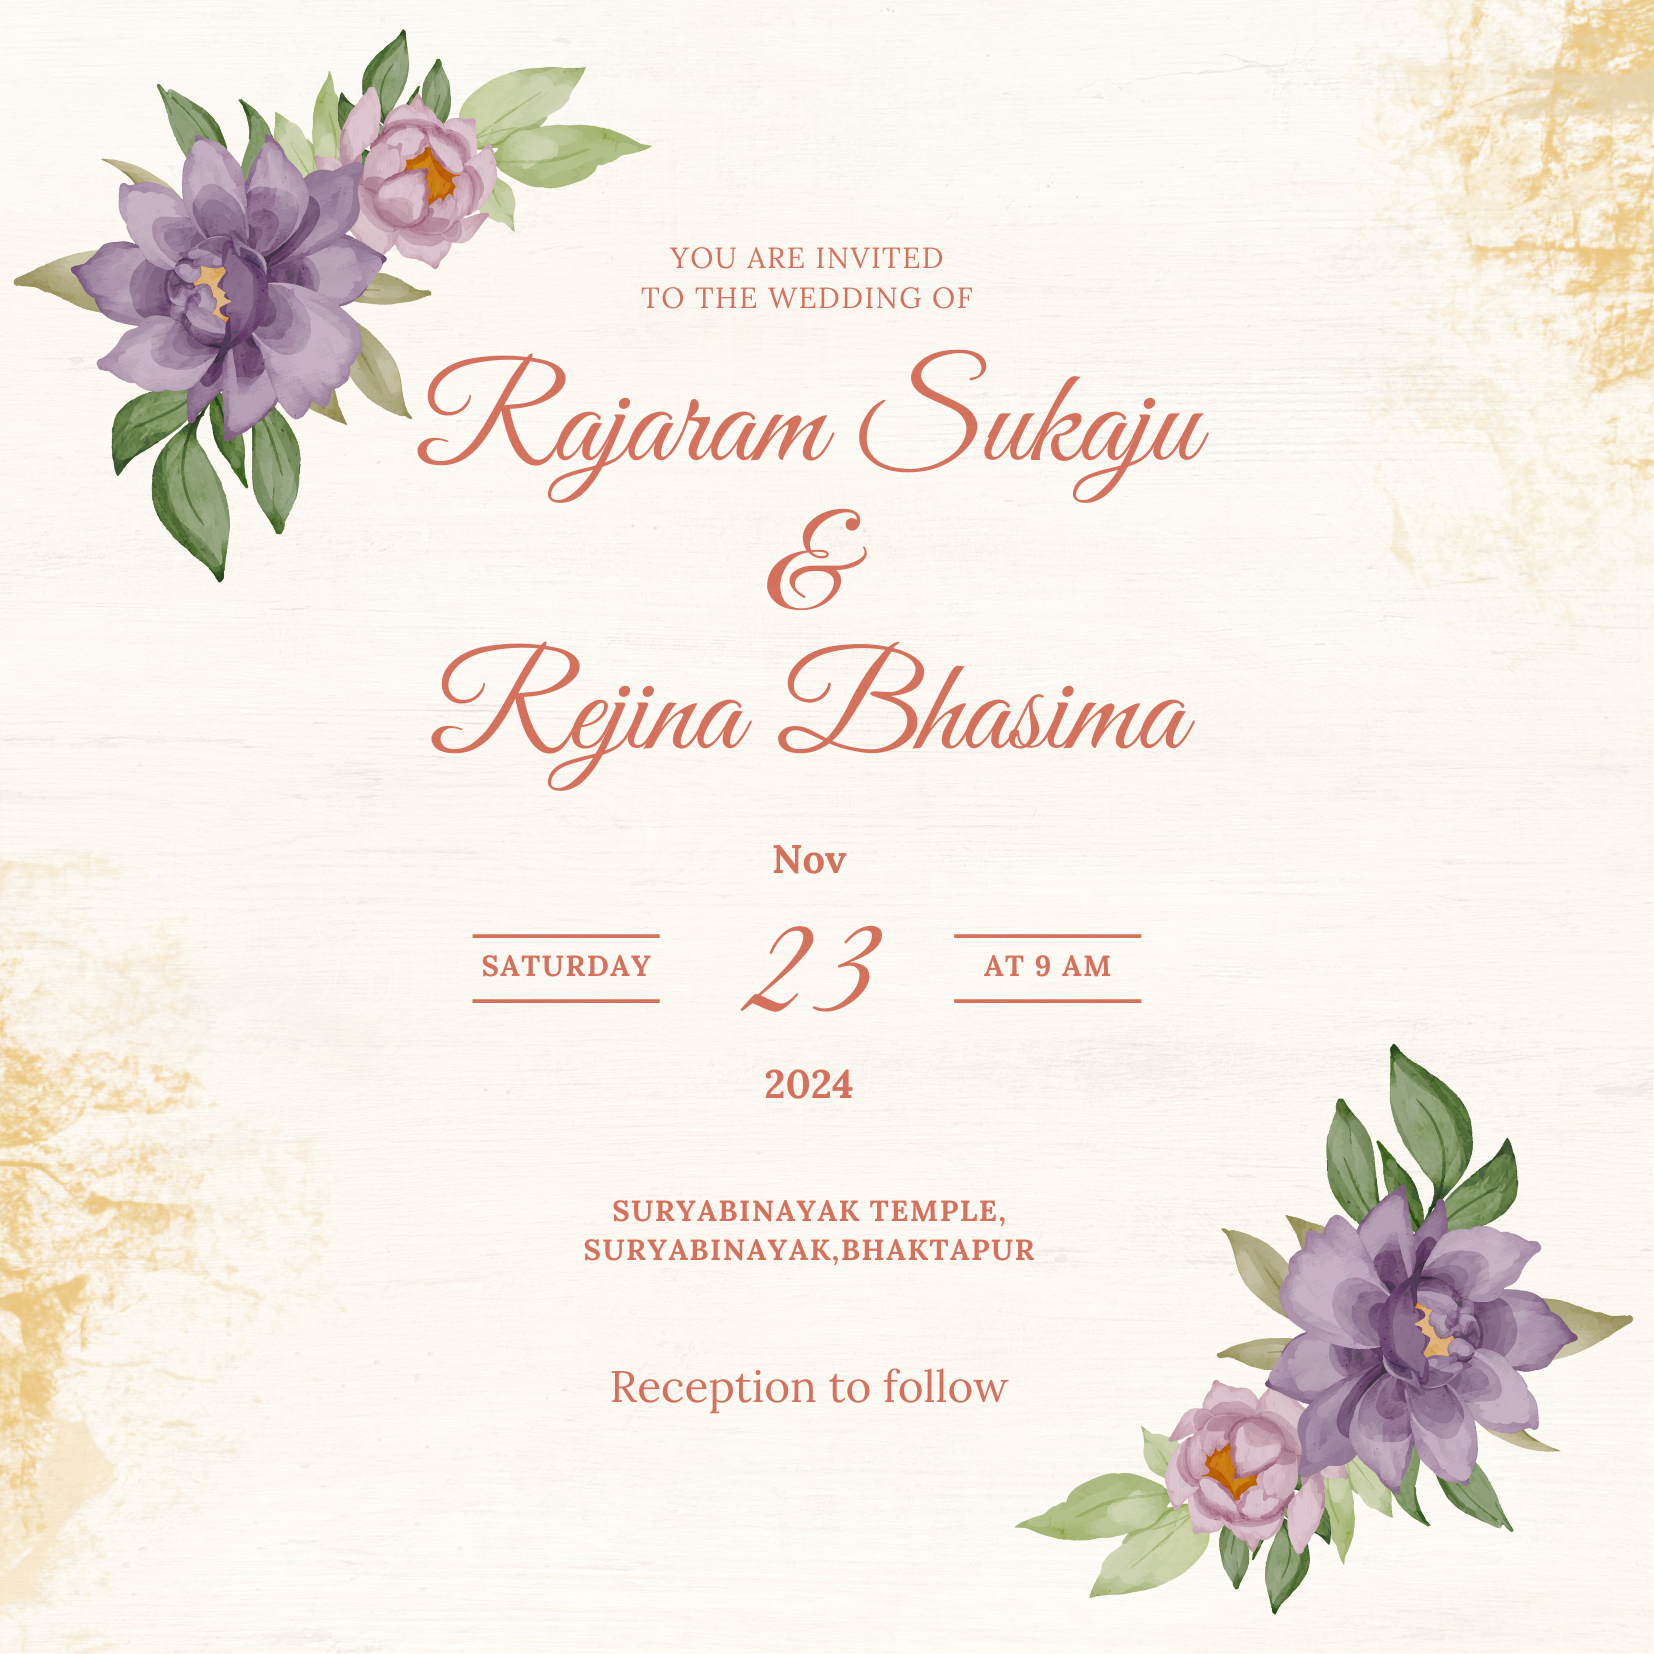
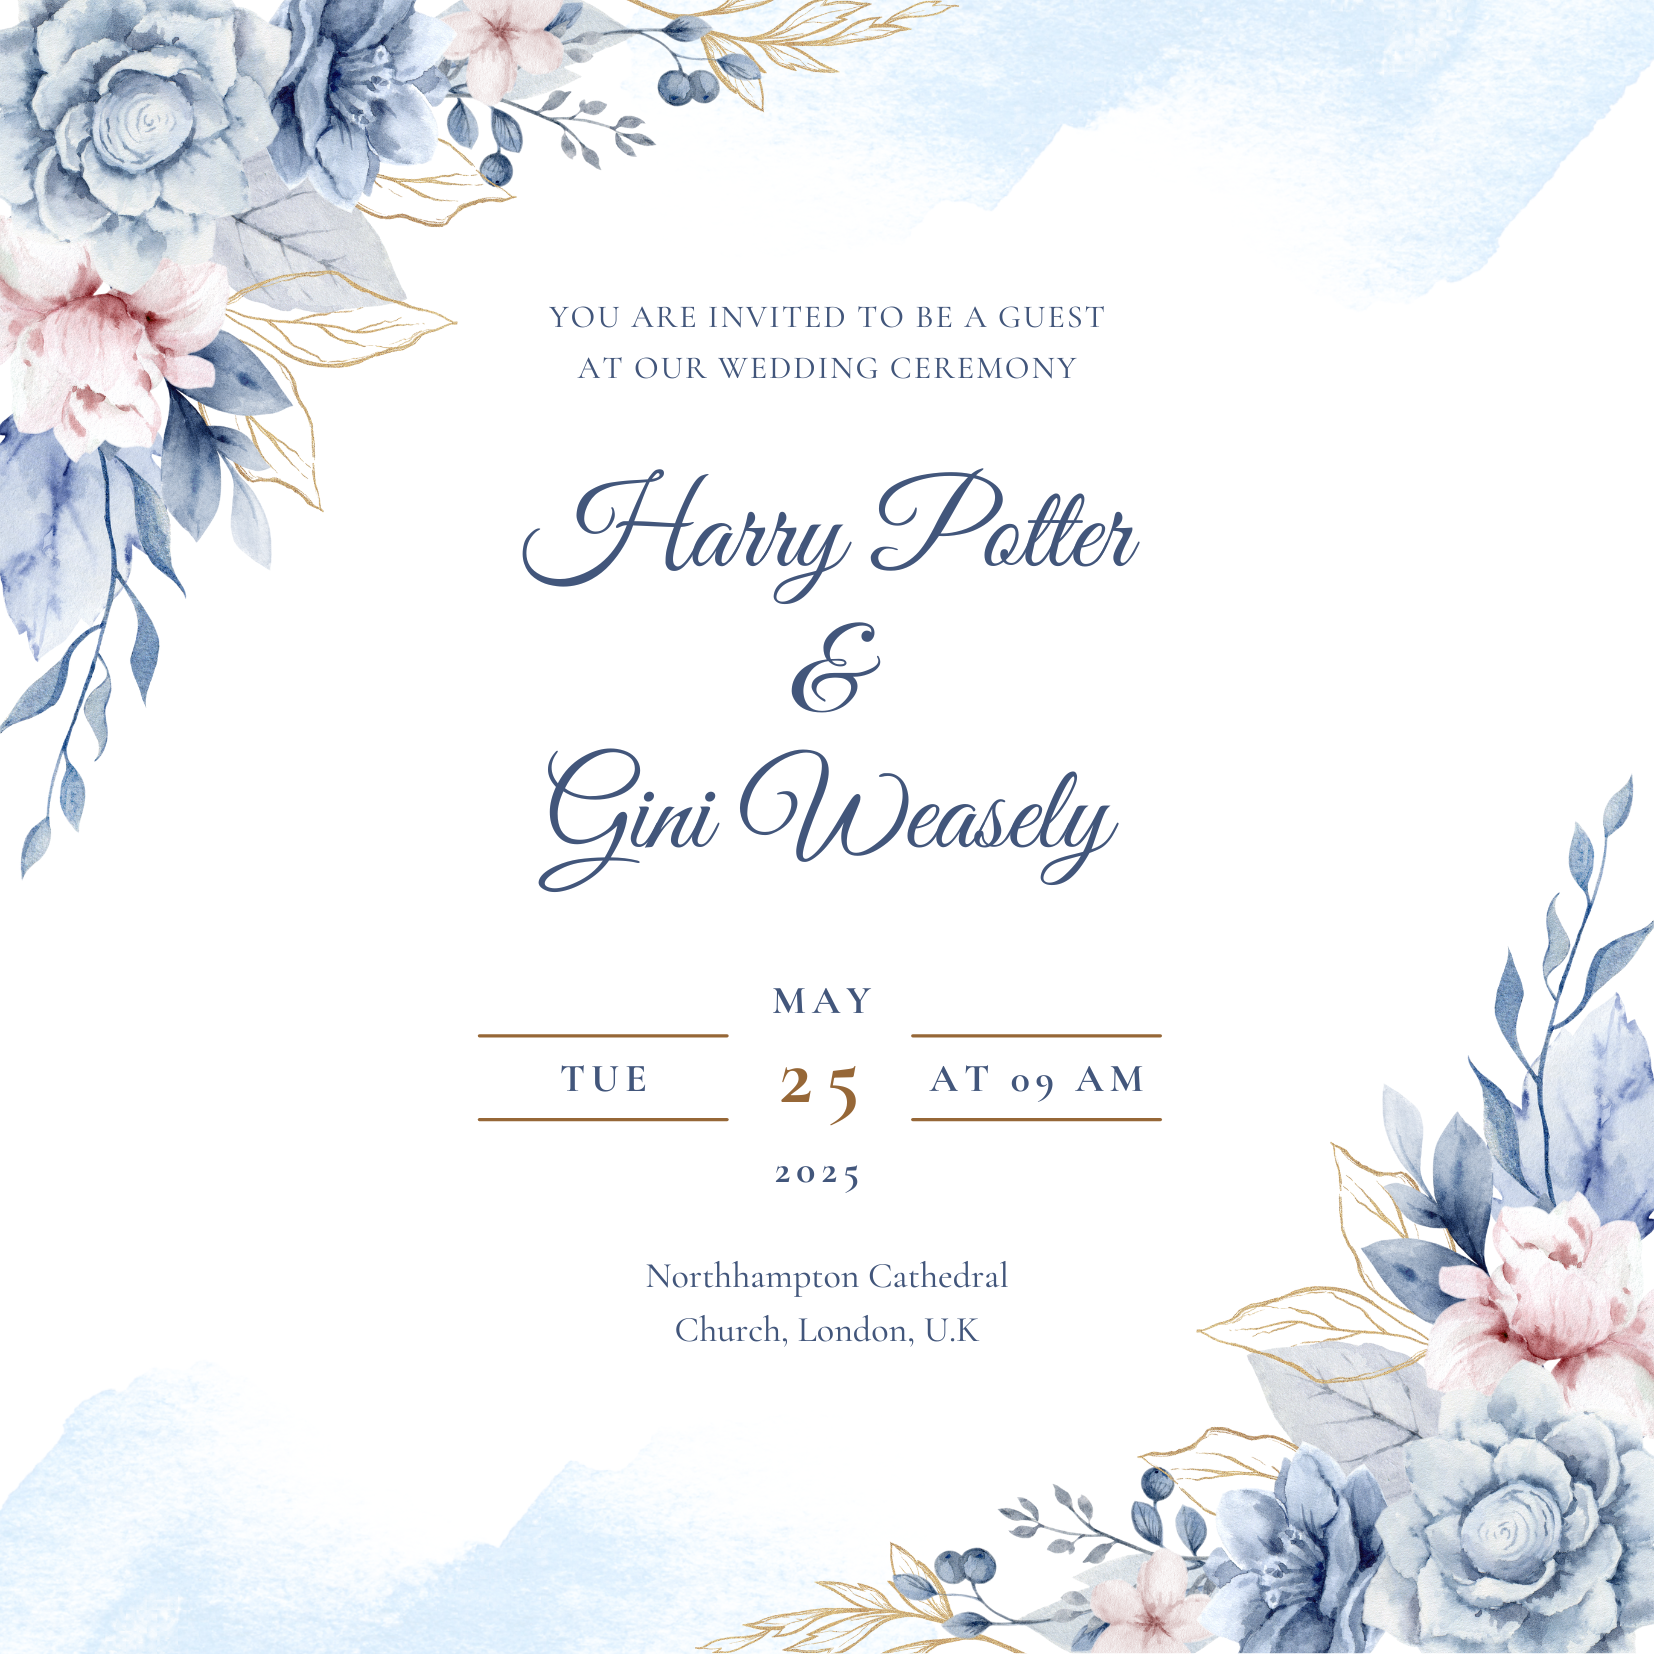
wedding invitation

diff --git a/Wedding-Invitation/index.html b/Wedding-Invitation/index.html
@@ -28,13 +28,13 @@
         
          <div class="title">
           <p><b>|| श्री गणेशाय नमः || </b></p>
-            <h1>Rajaram</h1>
+            <h1>Harry</h1>
             <h2>&</h2>
-            <h1>Rejina</h1>
+            <h1>Gini</h1>
             <h3>Are getting married</h3>
             <p>
                on <span class="date">23 November 2024</span></29>, At <span class="place"> 
-                Suryabinayak Mandir</span> Suryabinayak, Bhaktapur.            
+                Hogwarts Church</span> Hogwarts, WizardsLand.            
             </p>
 
             <div class="body2">
@@ -127,8 +127,8 @@
       </div>
       <p class="footer">
          Can't wait to celebrate auspicious moment of our family with you! <br>
-         Ping me for queries: +977-9860073315
-         <span> <a href="https://api.whatsapp.com/send?phone=9779860073315&utm_source=Messaging&utm_medium=Whatsapp" target="_blank" class="social-icon" title="WhatsApp">
+         Ping me for queries: +977-9890452376
+         <span> <a href="https://api.whatsapp.com/send?phone=9779890452376&utm_source=Messaging&utm_medium=Whatsapp" target="_blank" class="social-icon" title="WhatsApp">
           <svg xmlns="http://www.w3.org/2000/svg" width="22" height="22" viewBox="0 -8 30 30" fill="none" stroke="currentColor" stroke-width="2" stroke-linecap="round" stroke-linejoin="round" class="feather feather-activity"><path d="M21 11.5a8.38 8.38 0 0 1-.9 3.8 8.5 8.5 0 0 1-7.6 4.7 8.38 8.38 0 0 1-3.8-.9L3 21l1.9-5.7a8.38 8.38 0 0 1-.9-3.8 8.5 8.5 0 0 1 4.7-7.6 8.38 8.38 0 0 1 3.8-.9h.5a8.48 8.48 0 0 1 8 8v.5z"></path></svg>            
         </a></span>
       </p>
@@ -142,7 +142,7 @@
 
       <div class="actions">
         
-         <a href="https://www.google.com/maps/place/Suryabinayak+Ganesh+Temple/@27.6562438,85.420847,17z/data=!3m1!4b1!4m6!3m5!1s0x39eb10093513bdbd:0xa2e924b9285560c6!8m2!3d27.6562438!4d85.4234219!16s%2Fm%2F0nd3h1r?entry=ttu&g_ep=EgoyMDI0MTAxNi4wIKXMDSoASAFQAw%3D%3D" target="_blank">
+         <a href="https://www.google.com/maps/place/Northampton+Cathedral/@52.2480685,-0.9010966,17z/data=!3m1!4b1!4m6!3m5!1s0x48770ec1d0130607:0x7ca5618c757de1fa!8m2!3d52.2480685!4d-0.8985217!16s%2Fm%2F02663kn?entry=ttu&g_ep=EgoyMDI0MTAxNi4wIKXMDSoASAFQAw%3D%3D" target="_blank">
            <div class="venue">SEE THE VENUE</div>
          </a>
       
@@ -223,7 +223,7 @@
 
 
 <br>
-Crafted  by Rupesh Bhasima❤
+Crafted  by Ron Weasley❤
 
 </body>
 
